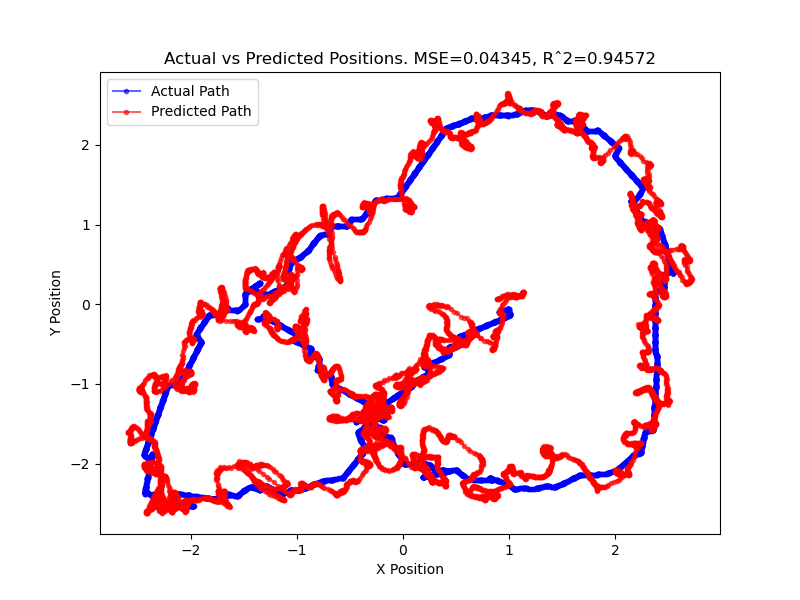
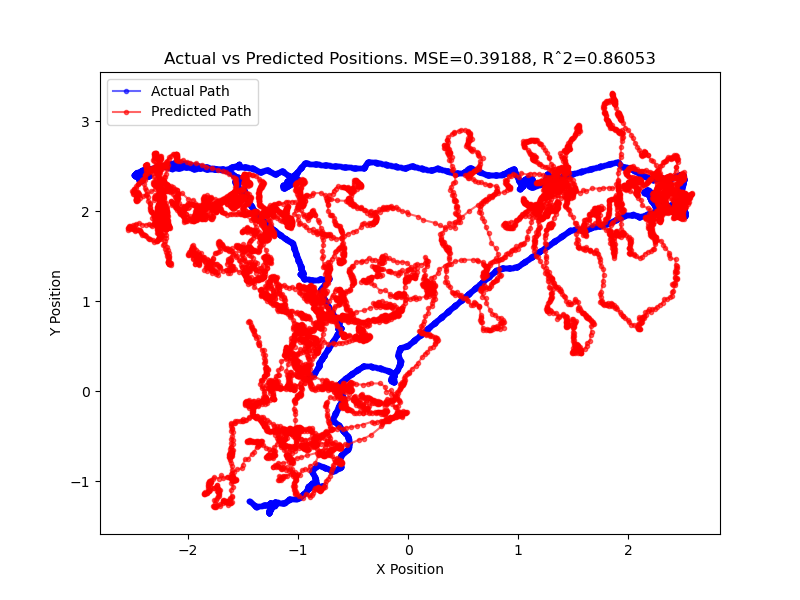
Improved 3D random Walk

diff --git a/DroneController.py b/DroneController.py
@@ -50,8 +50,15 @@ class DroneController:
         self.past_pos = np.array([0, 0, 0])
         self.past_time = 0.0
         self.hover_altitude = hover_altitude
+        self.initial_pid = True
 
         print('DroneController initialized')
+
+    def change_gains_pid(self, kp = 1.0, kd = 1.4, ki = 0.0):
+        self.pid_controller.gains["kp_z"] = kp
+        self.pid_controller.gains["kd_z"] = kd
+        self.pid_controller.gains["ki_z"] = ki
+        self.initial_pid = False
 
     def update(self, direction): # Override for 3d movement
         """
@@ -71,10 +78,10 @@ class DroneController:
         altitude = gps_values[2]
 
         # check for 2d or 3d input
-        if len(direction) == 3 and direction[2]!=0:
-            print(f'alt change = {direction[2]}')
+        if len(direction) == 3 and direction[2]!=0:            
             horizontal_direction = direction[:2]
             self.hover_altitude = direction[2] + altitude
+            #print(f'alt change to = {self.hover_altitude}')
         else:
             horizontal_direction = direction
 
@@ -143,6 +150,32 @@ class PIDVelocityController:
         self.altitude_integrator = 0.0
         self.prev_yaw_error = 0.0
         self.yaw_integrator = 0.0
+        self.hover_speed = 48 #48
+
+        self.prev_altitude = None
+        self.prev_vz_error = 0.0
+        self.altitude_integrator_vz = 0.0
+
+        # PID gains
+        self.gains = {
+            "kp_att_y": 1.0,
+            "kd_att_y": 0.5,
+            "kp_att_rp": 0.5,
+            "kd_att_rp": 0.1,
+            "kp_vel_xy": 2.0,
+            "kd_vel_xy": 0.5,
+            "kp_z": 1.0,
+            "ki_z": 0.01,
+            "kd_z": 1.4,
+            "k_alt": 1.0,    # converts altitude error to desired vertical velocity
+            "kp_vz": 1.0,
+            "kd_vz": 0.5,
+            "ki_vz": 0.01,
+            "Kp_yaw" : 2.0,
+            "Ki_yaw" : 0.0,
+            "Kd_yaw" : 0.5,
+        }
+        self.clip_bound = 15
 
         print('PIDVelocityController initialized')
 
@@ -168,22 +201,7 @@ class PIDVelocityController:
         Returns:
             list: Motor speeds [m1, m2, m3, m4].
         """
-        # PID gains
-        gains = {
-            "kp_att_y": 1.0,
-            "kd_att_y": 0.5,
-            "kp_att_rp": 0.5,
-            "kd_att_rp": 0.1,
-            "kp_vel_xy": 2.0,
-            "kd_vel_xy": 0.5,
-            "kp_z": 1.0,
-            "ki_z": 0.01,
-            "kd_z": 1.4,
-            "Kp_yaw" : 2.0,
-            "Ki_yaw" : 0.0,
-            "Kd_yaw" : 0.5,
-        }
-        clip_bound = 15
+        
         
         # Velocity PID for forward (x) and lateral (y)
         vx_error = desired_vx - actual_vx
@@ -195,11 +213,11 @@ class PIDVelocityController:
         yaw_deriv = (yaw_error - self.prev_yaw_error) / dt
         self.yaw_integrator += yaw_error * dt
         
-        desired_pitch = gains["kp_vel_xy"] * np.clip(vx_error, -clip_bound, clip_bound) + gains["kd_vel_xy"] * vx_deriv
-        desired_roll = -gains["kp_vel_xy"] * np.clip(vy_error, -clip_bound, clip_bound) - gains["kd_vel_xy"] * vy_deriv
-        yaw_rate_command = (gains["Kp_yaw"] * yaw_error
-                        + gains["Ki_yaw"] * self.yaw_integrator
-                        + gains["Kd_yaw"] * yaw_deriv)
+        desired_pitch = self.gains["kp_vel_xy"] * np.clip(vx_error, -self.clip_bound, self.clip_bound) + self.gains["kd_vel_xy"] * vx_deriv
+        desired_roll = -self.gains["kp_vel_xy"] * np.clip(vy_error, -self.clip_bound, self.clip_bound) - self.gains["kd_vel_xy"] * vy_deriv
+        yaw_rate_command = (self.gains["Kp_yaw"] * yaw_error
+                        + self.gains["Ki_yaw"] * self.yaw_integrator
+                        + self.gains["Kd_yaw"] * yaw_deriv)
     
         self.prev_yaw_error = yaw_error    
         self.prev_vx_error = vx_error
@@ -209,12 +227,40 @@ class PIDVelocityController:
         alt_error = desired_altitude - actual_altitude
         alt_deriv = (alt_error - self.prev_alt_error) / dt
         self.altitude_integrator += alt_error * dt
-        alt_command = (gains["kp_z"] * alt_error +
-                       gains["kd_z"] * alt_deriv +
-                       gains["ki_z"] * self.altitude_integrator) 
-        alt_command = 48 + (alt_command * 10)  # 48 is the bare minimum velocity for lift off | times a ratio
+        alt_command = (self.gains["kp_z"] * alt_error +
+                       self.gains["kd_z"] * alt_deriv +
+                       self.gains["ki_z"] * self.altitude_integrator) 
+        alt_command = self.hover_speed + (alt_command * 10)  # 48 is the bare minimum velocity for lift off | times a scaled ratio
         self.prev_alt_error = alt_error
 
+        # ----- Velocity-Based Altitude Control -----
+        # Compute vertical (z) velocity
+        if self.prev_altitude is None:
+            # On first call, assume no vertical velocity.
+            vertical_velocity = 0.0
+        else:
+            vertical_velocity = (actual_altitude - self.prev_altitude) / dt
+        self.prev_altitude = actual_altitude
+
+        # Compute altitude error and derive a desired vertical velocity
+        alt_error = desired_altitude - actual_altitude
+        desired_vz = self.gains["k_alt"] * alt_error
+
+        # Compute the velocity error in the vertical axis
+        vz_error = desired_vz - vertical_velocity
+        vz_deriv = (vz_error - self.prev_vz_error) / dt
+        self.altitude_integrator_vz += vz_error * dt
+        self.prev_vz_error = vz_error
+
+        # Compute the altitude command adjustment based on vertical velocity error
+        vz_command = (self.gains["kp_vz"] * vz_error +
+                      self.gains["kd_vz"] * vz_deriv +
+                      self.gains["ki_vz"] * self.altitude_integrator_vz)
+        
+        # Combine with the known hover throttle.
+        # 55.35 is the motor speed for stable hovering; we add a scaled correction.
+        alt_command = 55.35 + 2*(vz_command)
+        #print(f'alt com={alt_command}, vz com = {vz_command}')
         #print(f'alt={actual_altitude}, alt_d={desired_altitude}, alt_e={alt_error}, alt_c={alt_command}')
         
         # Attitude PID for pitch, roll, and yaw rate
@@ -224,9 +270,9 @@ class PIDVelocityController:
         roll_deriv = (roll_error - self.prev_roll_error) / dt
         yaw_rate_error = yaw_rate_command - actual_yaw_rate
         
-        roll_command = gains["kp_att_rp"] * np.clip(roll_error, -clip_bound, clip_bound) + gains["kd_att_rp"] * roll_deriv
-        pitch_command = -gains["kp_att_rp"] * np.clip(pitch_error, -clip_bound, clip_bound) - gains["kd_att_rp"] * pitch_deriv
-        yaw_command = gains["kp_att_y"] * np.clip(yaw_rate_error, -clip_bound, clip_bound)
+        roll_command = self.gains["kp_att_rp"] * np.clip(roll_error, -self.clip_bound, self.clip_bound) + self.gains["kd_att_rp"] * roll_deriv
+        pitch_command = -self.gains["kp_att_rp"] * np.clip(pitch_error, -self.clip_bound, self.clip_bound) - self.gains["kd_att_rp"] * pitch_deriv
+        yaw_command = self.gains["kp_att_y"] * np.clip(yaw_rate_error, -self.clip_bound, self.clip_bound)
         
         self.prev_pitch_error = pitch_error
         self.prev_roll_error = roll_error

diff --git a/SelfLocalisationCF.py b/SelfLocalisationCF.py
@@ -23,16 +23,16 @@ from datetime import datetime
 import pickle
 
 # ---------------- Simulation Parameters ----------------
-FLYING_ATTITUDE = 1              # Base altitude (z-value) for flying
+FLYING_ATTITUDE = 0              # Base altitude (z-value) for flying
 INITIAL_PAUSE = 6                # Time (in seconds) for the drone to lift off and stabilize
 COMMAND_INTERVAL = 1           # Interval (in seconds) between new movement commands
 COMMAND_TOLERANCE = 0.032        # Tolerance (in seconds) for command timing
-MOVEMENT_MAGNITUDE = 1.0         # Magnitude of the movement vector in the xy-plane
-DRIFT_COEFFICIENT = 0.03         # Lowered drift coefficient to reduce abrupt corrections
+MOVEMENT_MAGNITUDE = 0.25         # Magnitude of the movement vector in the xy-plane
+NEURAL_NOISE_VAR = 0.01 * 5#%    # The value of the standart variation for noise on network activity (normalised to 0.0-1.0)
 ARENA_BOUNDARIES = np.array([[-2.5, 2.5],  # x boundaries
                              [-2.5, 2.5],  # y boundaries
-                             [1, 3]])      # z boundaries
-NEURAL_NOISE_VAR = 0.01 * 5#%    # The value of the standart variation for noise on network activity (normalised to 0.0-1.0)
+                             [-2.5, 2.5]]) # z boundaries
+
 
 # ---------------- Helper Functions ----------------
 def plot_3d_trajectory(pos, ID='null'):
@@ -43,11 +43,11 @@ def plot_3d_trajectory(pos, ID='null'):
     plt.plot(time, x[start:stop], 'b:', label='x')
     plt.plot(time, y[start:stop], 'r:', label='y')
     plt.plot(time, z[start:stop], 'g:', label='z')
-    plt.axhline(ARENA_BOUNDARIES[0,0], c='y', label = 'x-y limit')
-    plt.axhline(ARENA_BOUNDARIES[0,1], c='y')
-    plt.axhline(ARENA_BOUNDARIES[2,0], c='b', label = 'alt limit')
-    plt.axhline(ARENA_BOUNDARIES[2,1], c='b')
-    plt.ylim(-3, 4)
+    plt.axhline(ARENA_BOUNDARIES[0,0], c='c', label = 'x-y limit')
+    plt.axhline(ARENA_BOUNDARIES[0,1], c='c')
+    plt.axhline(ARENA_BOUNDARIES[2,0], c='g', label = 'alt limit')
+    plt.axhline(ARENA_BOUNDARIES[2,1], c='g')
+    plt.ylim(-3, 3.5)
     plt.grid()
     plt.legend()
 
@@ -134,7 +134,7 @@ def load_object(filename):
     except Exception as ex:
         print("Error during unpickling object (Possibly unsupported):", ex)
 
-def compute_drift_vector(position, drift_coefficient=DRIFT_COEFFICIENT, arena_radius=5):
+def compute_drift_vector(position, drift_coefficient=0.1, arena_radius=5):
     """
     Compute a drift vector that nudges the drone toward the arena center.
 
@@ -215,7 +215,7 @@ def update_direction(current_direction, magnitude, dt, angular_std=0.1):
     new_angle = (new_angle + np.pi) % (2 * np.pi) - np.pi
     return np.array([np.cos(new_angle), np.sin(new_angle)]) * magnitude
 
-def update_direction3D(current_direction, magnitude, dt, angular_std=0.1):
+def update_direction3D(current_direction, magnitude, dt, angular_std=0.25):
     """
     Update the drone's movement direction in 3D using a small random rotation.
     
@@ -261,7 +261,7 @@ def update_direction3D(current_direction, magnitude, dt, angular_std=0.1):
     # Use Rodrigues rotation formula to compute the rotated vector. simplifies to:
     #   v_rot = v*cos(theta) + (a x v)*sin(theta)
     new_direction = np.cos(d_angle) * unit_current + np.sin(d_angle) * np.cross(axis, unit_current)
-    
+    #print(f'{new_direction}, size={np.linalg.norm(new_direction)}')
     return new_direction * magnitude
 
 # ---------------- Main Simulation Loop ----------------
@@ -306,12 +306,15 @@ def main(ID, gains, robot_, simulated_minutes=1, predict_during_simulation=False
 
         # After Initial start-up
         else:
+            if(controller.initial_pid):
+                controller.change_gains_pid(kp=2.0, kd=3.0, ki=0.0)
+
             # Default movement: no change unless a new command is issued at the interval
             movement_direction = np.array([0, 0])
         
             # Issue a new movement command at defined intervals (after the initial pause)
             if (elapsed_time % COMMAND_INTERVAL) <= COMMAND_TOLERANCE:
-                movement_direction = update_direction3D(previous_direction, MOVEMENT_MAGNITUDE, dt, angular_std=0.33) # Update direction using a small-angle random walk     
+                movement_direction = update_direction3D(previous_direction, MOVEMENT_MAGNITUDE, dt, angular_std=0.5) # Update direction using a small-angle random walk     
                 movement_direction = adjust_for_boundaries(ARENA_BOUNDARIES, current_position, movement_direction) # Adjust the movement to respect arena boundaries
                 previous_direction = movement_direction  # Use the latest command as the basis for the next direction update
                 #print(movement_direction)
@@ -323,7 +326,7 @@ def main(ID, gains, robot_, simulated_minutes=1, predict_during_simulation=False
 
             # network online prediction
             if (predict_during_simulation):
-                noisy_activity = activity + np.random.normal(0, NEURAL_NOISE_VAR, np.shape(activity))
+                noisy_activity = np.clip(activity + np.random.normal(0, NEURAL_NOISE_VAR, np.shape(activity)), 0.0, 1.0)
                 prediction_pos = rls.predict(noisy_activity)
                 predicted_pos_log.append(prediction_pos)
                 prediction_mse_log.append((prediction_pos-current_position)**2)
@@ -362,7 +365,7 @@ def main(ID, gains, robot_, simulated_minutes=1, predict_during_simulation=False
     if (predict_during_simulation):
         mse_mean = np.mean(prediction_mse_log)
         PredictionModel.plot_prediction_path(np.array(position_log), np.array(predicted_pos_log), mse_mean, ID=ID)
-        mse_shuffeled = 'Nan'
+        mse_shuffeled = 'NaN'
         r2_mean = 'NaN'
         r2_shuffeled = 'NaN'
     else:
@@ -394,6 +397,6 @@ if __name__ == '__main__':
 
     #trans_field.setSFVec3f(INITIAL)
     #robot_node.resetPhysics()
-    main(ID=id_, gains=gains, robot_=robot, simulated_minutes=15.0, predict_during_simulation=False)
+    main(ID=id_, gains=gains, robot_=robot, simulated_minutes=40.0, predict_during_simulation=False)
 
     #plot_fitting_results(nr, spacing, mse_means)

diff --git a/PredictionModel.py b/PredictionModel.py
@@ -124,52 +124,52 @@ class RLSRegressor:
         self.num_outputs = num_outputs
         self.lambda_ = lambda_
         # Weight matrix (mapping from features to outputs), shape: (num_features, num_outputs)
-        self.W = np.zeros((num_features, num_outputs))
+        self.A = np.zeros((num_features, num_outputs))
         # Inverse covariance matrix, initialized as a large multiple of the identity matrix.
         self.P = np.eye(num_features) * delta
         self.eps = 1e-5 # small constant to mitigate blow up in covariance matrix
 
-    def update(self, phi, d):
+    def update(self, y, x):
         """
         Update the regression weights using a new data pair.
         
         Parameters:
-        phi (np.ndarray): Input feature vector (neural activity) of shape (num_features,).
-        d (np.ndarray): Target output (e.g., 2D position) of shape (num_outputs,).
+        y (np.ndarray): Input feature vector (neural activity) of shape (num_features,).
+        x (np.ndarray): Target output (e.g., 2D position) of shape (num_outputs,).
         
         Returns:
         np.ndarray: Updated weight matrix.
         """
         # Ensure column vector format for phi and d
-        phi = phi.reshape(-1, 1)  # shape: (num_features, 1)
-        d = d.reshape(-1, 1)      # shape: (num_outputs, 1)
+        y = y.reshape(-1, 1)  # shape: (num_features, 1)
+        x = x.reshape(-1, 1)      # shape: (num_outputs, 1)
 
         # Compute the denominator (a scalar)
-        denom = self.lambda_ + np.dot(phi.T, np.dot(self.P, phi)) + self.eps
+        denom = self.lambda_ + np.dot(y.T, np.dot(self.P, y)) + self.eps
 
         # Compute the gain vector (shape: num_features x 1)
-        K = np.dot(self.P, phi) / denom
+        K = np.dot(self.P, y) / denom
 
         # Compute the prediction error (innovation) (shape: num_outputs x 1)
-        error = d - np.dot(self.W.T, phi)
+        error = x - np.dot(self.A.T, y)
 
         # Update the weight matrix; K (num_features x 1) multiplied by error.T (1 x num_outputs)
-        self.W = self.W + np.dot(K, error.T)
+        self.A = self.A + np.dot(K, error.T)
 
         # Update the inverse covariance matrix
-        self.P = (self.P - np.dot(K, np.dot(phi.T, self.P))) / self.lambda_
-        return self.W
+        self.P = (self.P - np.dot(K, np.dot(y.T, self.P))) / self.lambda_
+        return self.A
 
-    def predict(self, phi):
+    def predict(self, y):
         """
         Predict the output given a new feature vector.
         
         Parameters:
-        phi (np.ndarray): Input feature vector of shape (num_features,).
+        y (np.ndarray): Input feature vector of shape (num_features,).
         
         Returns:
         np.ndarray: Predicted output (e.g., 2D position).
         """
-        phi = phi.reshape(-1, 1)
-        d_pred = np.dot(self.W.T, phi)
-        return d_pred.flatten()
+        y = y.reshape(-1, 1)
+        x_est = np.dot(self.A.T, y)
+        return x_est.flatten()

diff --git a/README.md b/README.md
@@ -8,10 +8,12 @@ This project aims to implement self localisation using a grid cell model as pres
 	- This code implements the grid cell model of the guanella paper (doi:10.1142/S0129065707001093). Thanks to Raimon Bullich Villareal for providing the bulk of the code.
 - DroneController.py
 	- Implements a controller unit that is used to control the drone in webbots. Makes use of a PID controller. Sourced and modified sample controller code.
+- PredictionModel.py
+	- The algorithm used for online prediction is defined here.
 - Sample
 	- Within this folder are the sample scripts of webots for the wall_following drone controller._ 
 - Results
-	- In this folder are the most recent plots and results sorted by their ID.
+	- In this folder are the most recent plots and results organised by their ID.
 - Deprecated
 	- This folder features old version of scripts which are not used any more.
 - SquareBox.wbt
@@ -19,7 +21,15 @@ This project aims to implement self localisation using a grid cell model as pres
 - runSLC.bat
 	- A batch file that can be run in the cmd to start the controller in webots
 
+
+## Current Tasks (no particular order):
+1. The project is getting long and complicated codewise. Proper documentation is crucial to maintain overview. Improve the readability and documentation of the code.
+3. Refine the position prediction algorithm by reducing time spent calculating the covariance matrix.
+1. Add the 3rd dimension to the grid network and prediction code.
+
+
 ## Latest Change:
+**28.03.:** Improved the three-dimensional random walk by using height velocity control in the PID. Using small movement steps, it mimics a typical theoretical random walk path.
 **26.03.:** Added Height control to the control loop. The drone now moves in all 3 dimensions. The movement seems less random at this moment and more like straight trajectories bouncing of the boundaries. <br>
 **18.03.:** Using RLS alorithm with noisy neural input to do positional predictions online during runtime. The majority of execution time is spent updating the covariance matrix.<br>
 **18.03.:** Made tweaks to the DroneController code. Smooth random movement is now achieved in place of the rigid, grid-like pattern!<br>
@@ -41,9 +51,3 @@ This project aims to implement self localisation using a grid cell model as pres
 **15.02.:** Corrected the yaw behaviour. Previously the yaw of the drone would be oscillating between two values. It now correctly stays in place until a new rotation command is given. The drone now stably moves for large simulated times (>1h), but seems to have a preference of staying within a certain quadrant.
 
 
-## Current Tasks (no particular order):
-1. The project is getting long and complicated codewise. Proper documentation is crucial to maintain overview. Improve the readability and documentation of the code.
-3. Refine the position prediction algorithm by reducing time spent calculating the covariance matrix.
-1. Tweak altitude control by finding optimal pid gains.
-1. Review random walk update function.
-1. Add the 3rd dimension to the grid network and prediction code.
